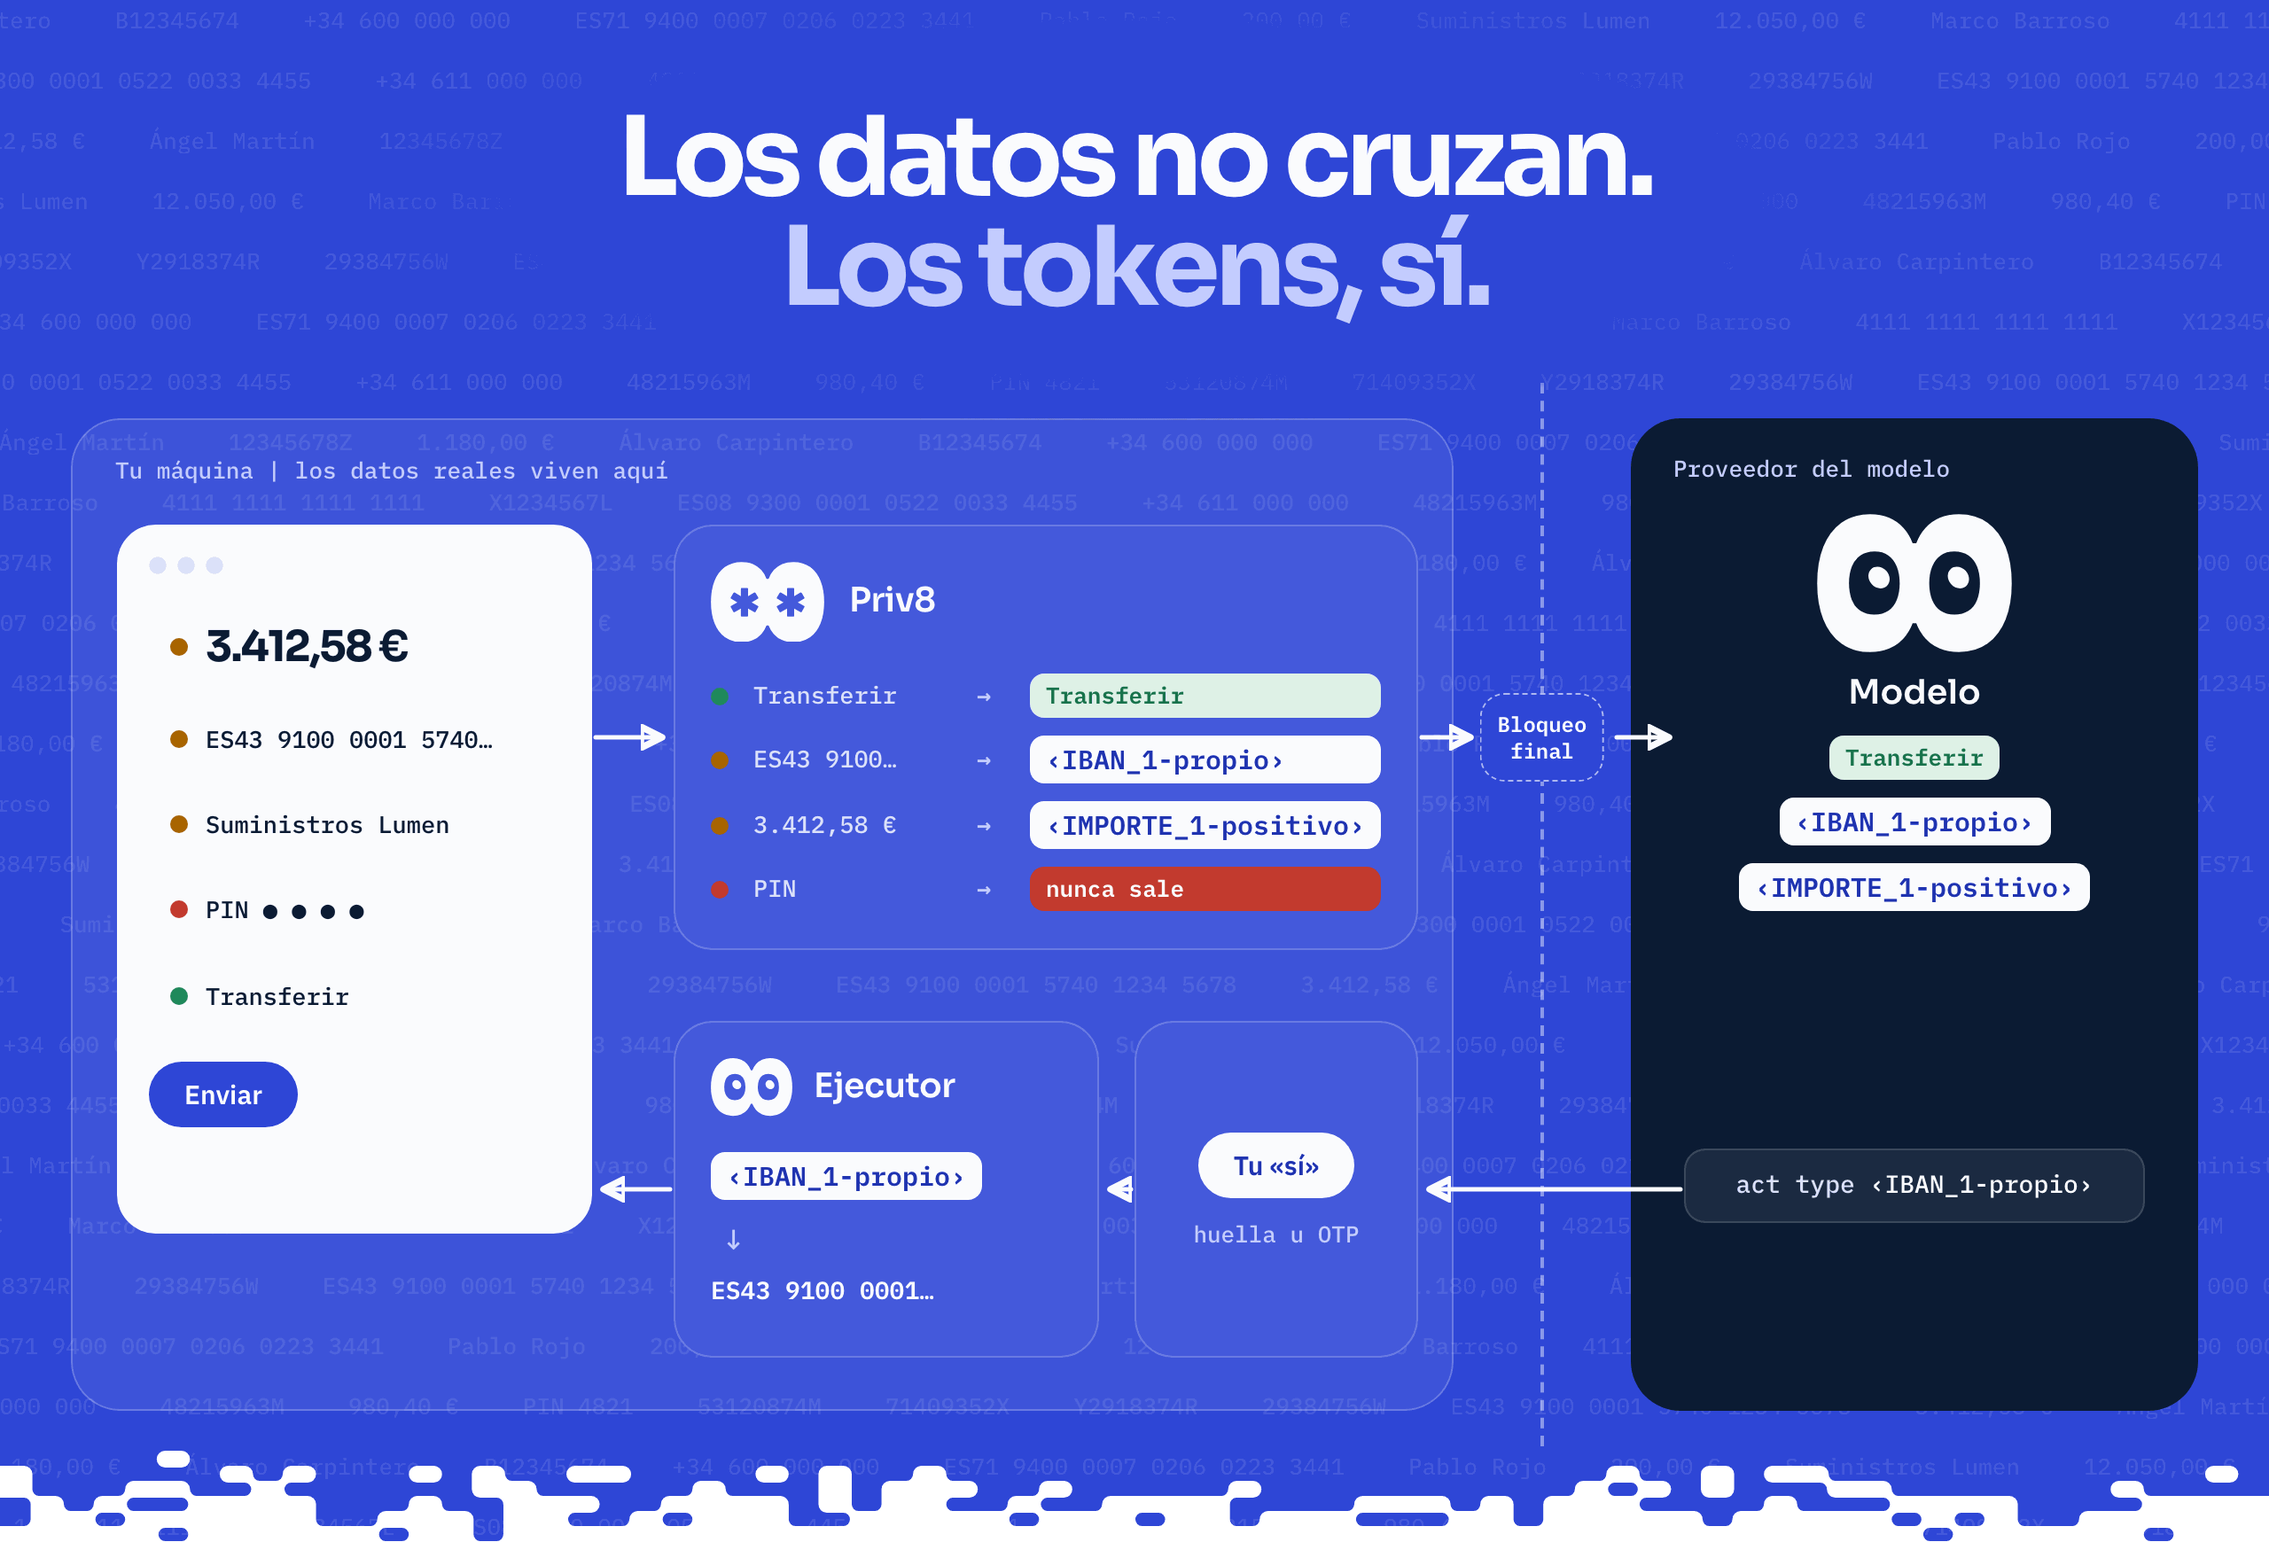
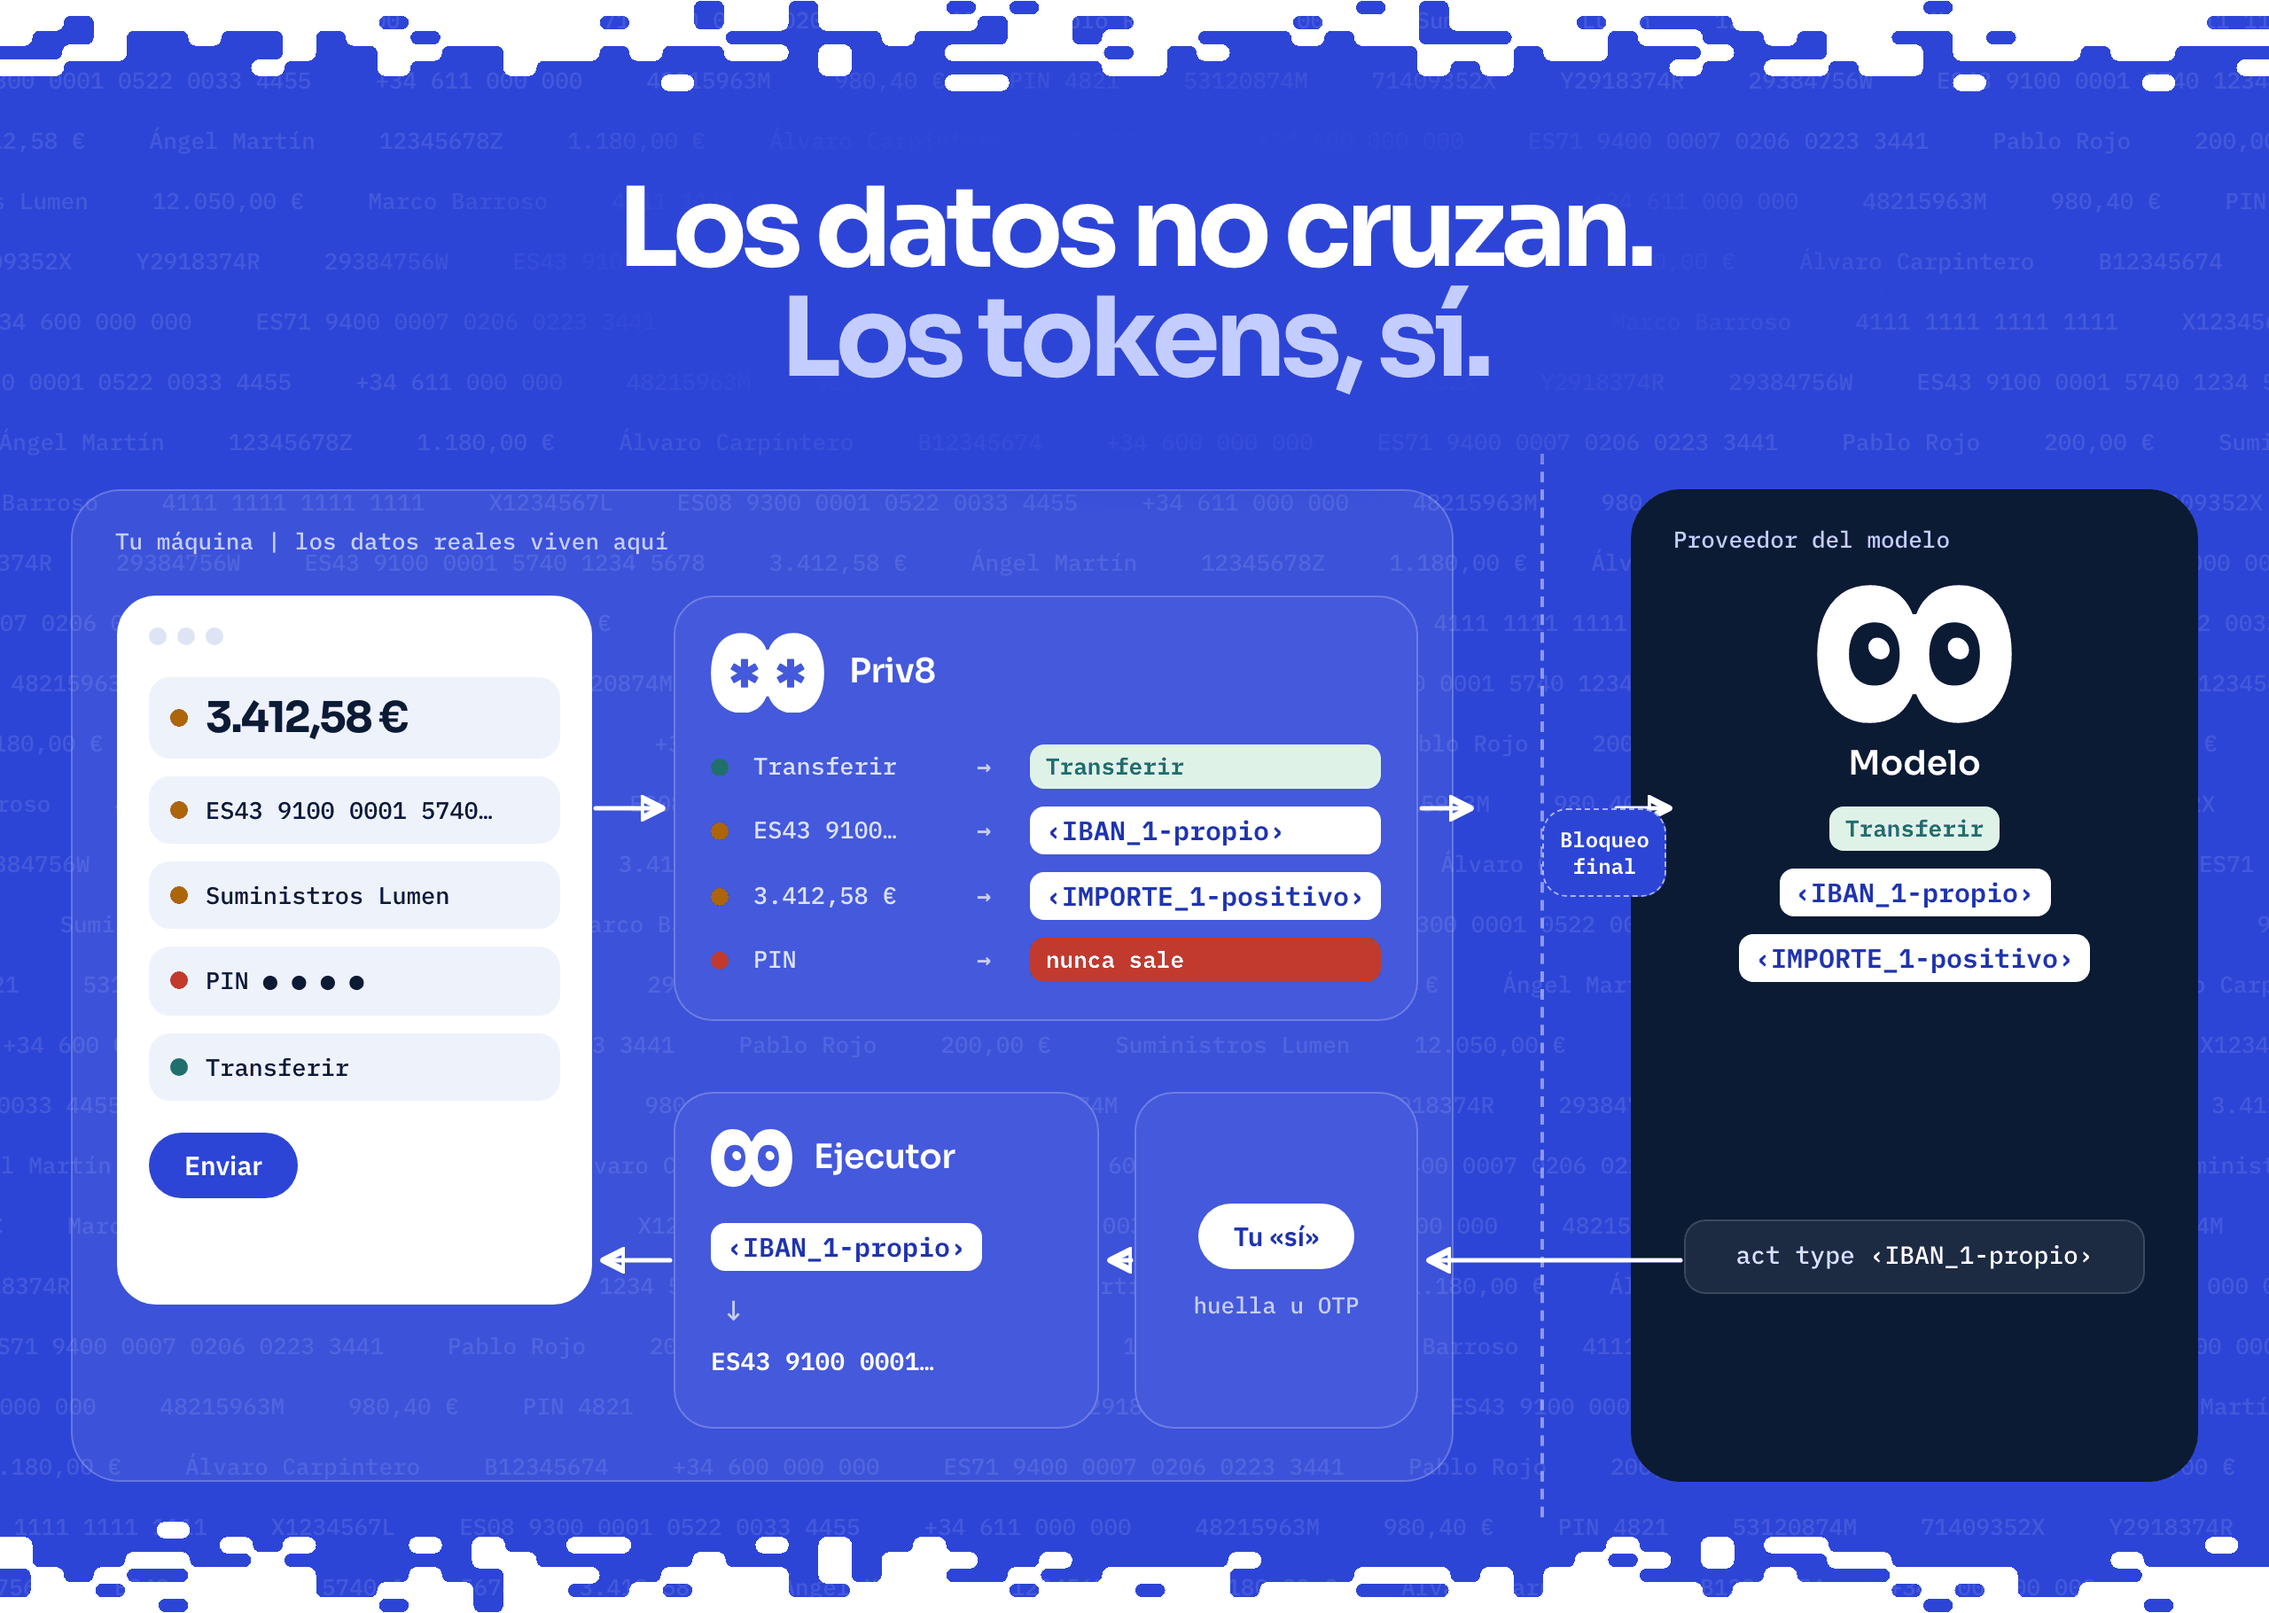
docs(readme): show how to use Priv8 with images
Adds the setup, panel, B2B, B2C and Claude Code images next to each
step, replaces the panel table with its picture, and regenerates the
existing graphics with transitions on both edges.

diff --git a/README.md b/README.md
@@ -42,6 +42,8 @@ En Windows, cada objetivo del `Makefile` es un `uv run ...` que se puede lanzar 
 
 ## Instalación
 
+<img alt="Tres pasos: uv sync y make web-install, la clave en .env, y doble clic en Demo Priv8.command" src="docs/img/uso-instalar.png" width="100%">
+
 ```bash
 uv sync             # Python y las dependencias exactas de uv.lock
 make web-install    # solo para la web en vivo: las tres apps web y Chromium
@@ -79,12 +81,9 @@ Al llegar a un límite, 8 para y lo dice en la consola. `make demo-b2b` lee el `
 
 ### 0. La demo en directo, con doble clic
 
-En macOS, doble clic en **`Demo Priv8.command`** (raíz del repositorio). Se abre un panel en http://127.0.0.1:5170:
+<img alt="El panel en 127.0.0.1:5170: Preparar B2B o B2C; con la demo lista, Abrir la consola, Ver las pantallas o Ver el móvil" src="docs/img/uso-panel.png" width="100%">
 
-| Botón | Qué deja listo | Después |
-|---|---|---|
-| Preparar B2B | Alba Core con sesión, correo, consola y 8 esperando | "Abrir la consola" y "Ver las pantallas" (Chromium a pantalla completa) |
-| Preparar B2C | App Priv8 y bancos instalados, emulador y 8 escuchando | "Ver el móvil" |
+En macOS, doble clic en **`Demo Priv8.command`** (o `make panel`). B2B: "Abrir la consola" y "Ver las pantallas". B2C: "Ver el móvil".
 
 Antes, una vez: `cp .env.example .env` con tu `ANTHROPIC_API_KEY`. Si macOS no lo abre: clic derecho, Abrir (o `chmod +x "Demo Priv8.command"` tras descomprimir el ZIP). Cerrar el Terminal lo para todo.
 
@@ -103,6 +102,8 @@ El núcleo real con respuestas del modelo grabadas. Al final, el número de peti
 
 ### 2. B2B en vivo
 
+<img alt="B2B: llega la factura al correo, Alba Core sin API, y 8 la registra con tokens mientras la persona aprueba en la consola" src="docs/img/uso-b2b.png" width="100%">
+
 ```bash
 make demo-b2b    # Alba Core :5173, correo :5174, consola :5175 y 8 esperando
 ```
@@ -110,6 +111,8 @@ make demo-b2b    # Alba Core :5173, correo :5174, consola :5175 y 8 esperando
 En http://127.0.0.1:5175, pídele a 8 «registrar factura» y aprueba lo retenido. Por partes: `make web` y `make agent-web` (entonces Alba Core pide `admin.alba` / `Alba-2026!`, y la clave la escribe la persona).
 
 ### 3. B2C en el emulador
+
+<img alt="B2C: se lo dices a 8, la cifra suena con la voz local mientras el modelo solo ve ‹SUMA_1›, y la transferencia la confirmas tú" src="docs/img/uso-b2c.png" width="100%">
 
 ```bash
 scripts/movil.sh             # compila, arranca el AVD, instala y abre los puertos
@@ -120,6 +123,8 @@ make agent-android           # Claude en vivo
 Detalle del emulador en [`apps/android-8/README.md`](apps/android-8/README.md). La huella, la clave y el código los pone la persona; 8 mira a otro lado.
 
 ### 4. Priv8 en tu Claude Code
+
+<img alt="Priv8 en Claude Code: una línea de instalación, Claude recibe solo tokens y lo irreversible se aprueba en la consola" src="docs/img/uso-claude.png" width="100%">
 
 ```bash
 curl -fsSL https://mcp.priv8.es/instalar.sh | bash    # sin clonar: paquete en ~/.priv8/mcp
